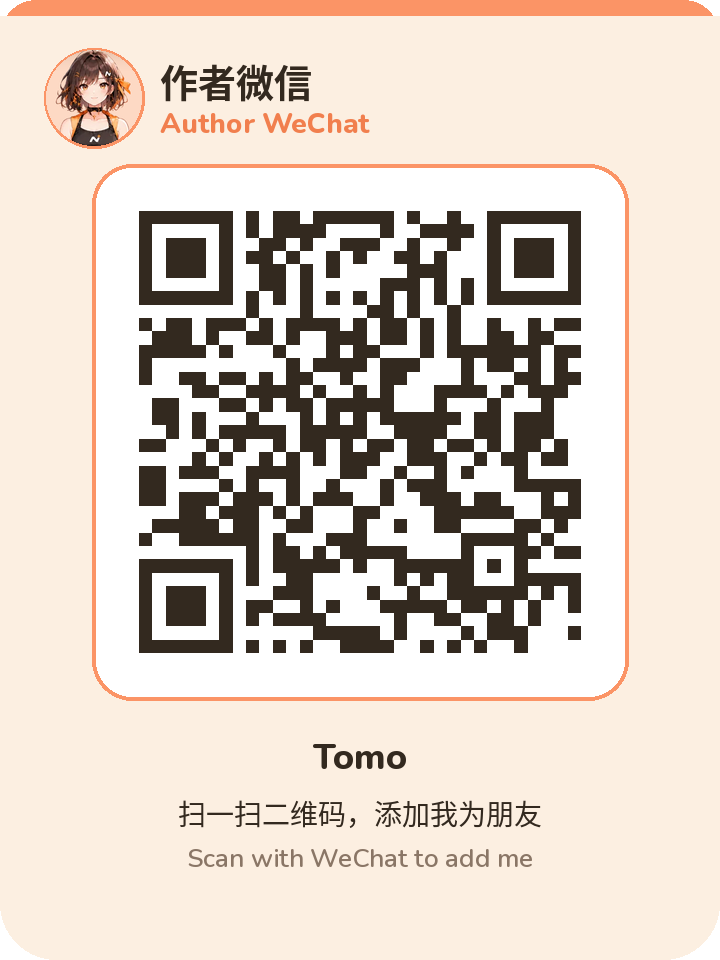
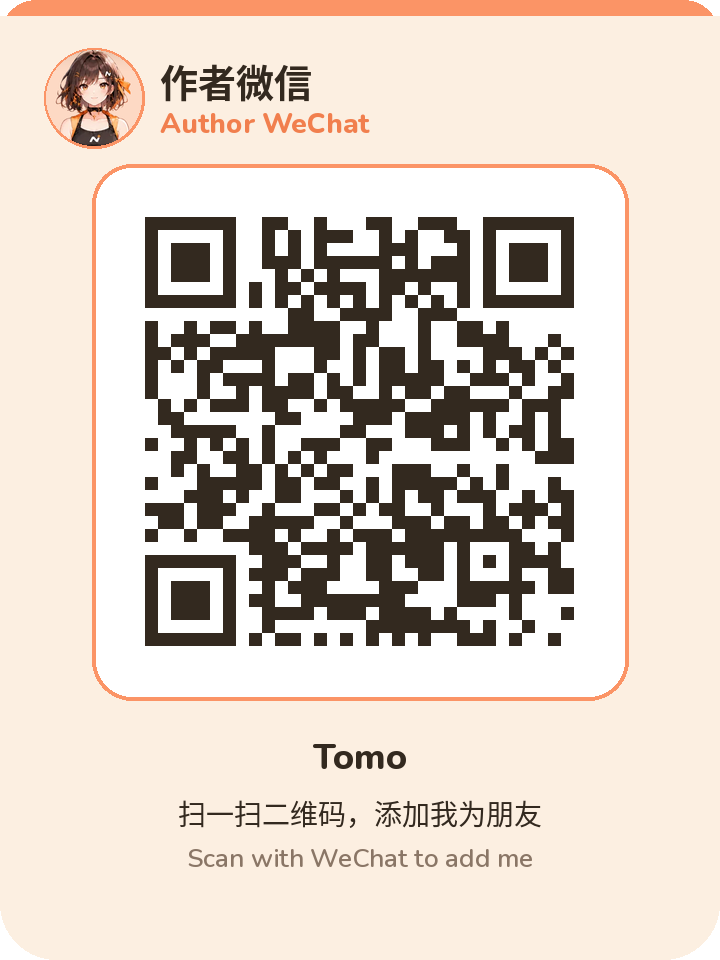
site: swap author WeChat QR, remove user group QR

Changed region(s): [[0.1833, 0.2188, 0.825, 0.6875]]

diff --git a/index.html b/index.html
@@ -11,8 +11,8 @@
   <title>Nomi·诺米 — 让 AI 工具协同起来</title>
   <link rel="icon" href="assets/brand/nomi-mark.svg" type="image/svg+xml" />
   <link rel="preload" href="assets/fonts/nunito-latin.woff2" as="font" type="font/woff2" crossorigin />
-  <link rel="preload" as="image" href="assets/mockup/hero-bg.webp?v=20261025v2fc" imagesrcset="assets/mockup/hero-bg.webp?v=20261025v2fc 1024w, assets/mockup/hero-bg@2x.webp?v=20261025v2fc 2048w" imagesizes="100vw" fetchpriority="high" />
-  <link rel="stylesheet" href="css/styles.css?v=20261026v202" />
+  <link rel="preload" as="image" href="assets/mockup/hero-bg.webp?v=20261027qr" imagesrcset="assets/mockup/hero-bg.webp?v=20261027qr 1024w, assets/mockup/hero-bg@2x.webp?v=20261027qr 2048w" imagesizes="100vw" fetchpriority="high" />
+  <link rel="stylesheet" href="css/styles.css?v=20261027qr" />
 </head>
 <body data-page="home" id="top">
   <header class="site-header">
@@ -50,8 +50,8 @@
     <section class="hero hero--bleed" aria-labelledby="hero-title">
       <div class="hero-bleed-media" aria-hidden="true">
         <img
-          src="assets/mockup/hero-bg.webp?v=20261025v2fc"
-          srcset="assets/mockup/hero-bg.webp?v=20261025v2fc 1024w, assets/mockup/hero-bg@2x.webp?v=20261025v2fc 2048w"
+          src="assets/mockup/hero-bg.webp?v=20261027qr"
+          srcset="assets/mockup/hero-bg.webp?v=20261027qr 1024w, assets/mockup/hero-bg@2x.webp?v=20261027qr 2048w"
           sizes="100vw"
           width="2048" height="768"
           alt=""
@@ -291,17 +291,13 @@
       <div class="container">
         <div class="section-head">
           <span class="section-label"><span data-i18n="contact.label">联系与交流</span></span>
-          <h2 id="contact-title" data-i18n="contact.title">联系作者，加入社区</h2>
-          <p class="lead" data-i18n="contact.lead">使用微信扫码，添加作者或加入 Nomi 用户交流群。</p>
+          <h2 id="contact-title" data-i18n="contact.title">联系作者</h2>
+          <p class="lead" data-i18n="contact.lead">使用微信扫码，添加作者。</p>
         </div>
         <div class="contact-grid">
           <figure class="contact-card">
-            <picture><source srcset="assets/contact/qr-author.webp?v=20261025v2fc" type="image/webp" /><img src="assets/contact/qr-author.png?v=20261025v2fc" width="360" height="480" loading="lazy" decoding="async" alt="作者微信二维码" data-i18n-alt="contact.author.alt" /></picture>
+            <picture><source srcset="assets/contact/qr-author.webp?v=20261027qr" type="image/webp" /><img src="assets/contact/qr-author.png?v=20261027qr" width="360" height="480" loading="lazy" decoding="async" alt="作者微信二维码" data-i18n-alt="contact.author.alt" /></picture>
             <figcaption data-i18n="contact.author.cap">作者微信 · Tomo</figcaption>
-          </figure>
-          <figure class="contact-card">
-            <picture><source srcset="assets/contact/qr-group.webp?v=20261025v2fc" type="image/webp" /><img src="assets/contact/qr-group.png?v=20261025v2fc" width="360" height="480" loading="lazy" decoding="async" alt="Nomi 用户交流群二维码" data-i18n-alt="contact.group.alt" /></picture>
-            <figcaption data-i18n="contact.group.cap">Nomi 用户交流群</figcaption>
           </figure>
         </div>
       </div>
@@ -345,7 +341,7 @@
       </div>
     </div>
   </footer>
-  <script src="js/i18n.js?v=20261026v202"></script>
-  <script src="js/main.js?v=20261026v202"></script>
+  <script src="js/i18n.js?v=20261027qr"></script>
+  <script src="js/main.js?v=20261027qr"></script>
 </body>
 </html>

diff --git a/js/i18n.js b/js/i18n.js
@@ -196,16 +196,13 @@
       "contactPop.title": "联系我们",
       "contactPop.close": "关闭",
       "contactPop.author": "作者微信二维码",
-      "contactPop.group": "Nomi 用户交流群二维码",
       "contactPop.hint": "长按识别二维码",
       "contactPop.issues": "遇到问题或有新想法？去 GitHub Issues 反馈",
       "contact.label": "联系与交流",
-      "contact.title": "联系作者，加入社区",
-      "contact.lead": "使用微信扫码，添加作者或加入 Nomi 用户交流群。",
+      "contact.title": "联系作者",
+      "contact.lead": "使用微信扫码，添加作者。",
       "contact.author.alt": "作者微信二维码",
       "contact.author.cap": "作者微信 · Tomo",
-      "contact.group.alt": "Nomi 用户交流群二维码",
-      "contact.group.cap": "Nomi 用户交流群",
       "footer.copy": "© Nomi·诺米 · MIT",
       "page.features.label": "功能",
       "page.features.title": "Nomi 能帮你做什么",
@@ -686,16 +683,13 @@
       "contactPop.title": "Contact us",
       "contactPop.close": "Close",
       "contactPop.author": "Author WeChat QR code",
-      "contactPop.group": "Nomi community group QR code",
       "contactPop.hint": "Long-press to scan",
       "contactPop.issues": "Found a bug or have an idea? Open a GitHub Issue",
       "contact.label": "Contact & community",
-      "contact.title": "Reach the author, join the community",
-      "contact.lead": "Scan with WeChat to add the author or join the Nomi user group.",
+      "contact.title": "Reach the author",
+      "contact.lead": "Scan with WeChat to add the author.",
       "contact.author.alt": "Author WeChat QR code",
       "contact.author.cap": "Author WeChat · Tomo",
-      "contact.group.alt": "Nomi community group QR code",
-      "contact.group.cap": "Nomi community group",
       "footer.copy": "© Nomi·诺米 · MIT",
       "page.features.label": "Features",
       "page.features.title": "What Nomi can do for you",

diff --git a/js/main.js b/js/main.js
@@ -96,7 +96,7 @@
     });
     return;
   }
-  var V = "20261019c", pop, backdrop, built = false, opener = null;
+  var V = "20261027qr", pop, backdrop, built = false, opener = null;
   function card(name, altKey) {
     return '<picture><source type="image/webp" data-srcset="assets/contact/' + name + '.webp?v=' + V + '" />' +
       '<img width="360" height="480" decoding="async" data-src="assets/contact/' + name + '.png?v=' + V + '" alt="" data-i18n-alt="' + altKey + '" /></picture>';
@@ -107,7 +107,7 @@
     pop.setAttribute("role", "dialog"); pop.setAttribute("aria-modal", "true"); pop.setAttribute("aria-labelledby", "contact-pop-title");
     pop.innerHTML = '<div class="cpop-head"><h2 id="contact-pop-title" data-i18n="contactPop.title">联系我们</h2>' +
       '<button type="button" class="cpop-close" data-i18n-aria-label="contactPop.close" aria-label="关闭">&times;</button></div>' +
-      '<div class="cpop-grid">' + card("qr-author", "contactPop.author") + card("qr-group", "contactPop.group") + '</div>' +
+      '<div class="cpop-grid">' + card("qr-author", "contactPop.author") + '</div>' +
       '<p class="cpop-hint" data-i18n="contactPop.hint">长按识别二维码</p>' +
       '<a class="cpop-issues" href="https://github.com/Cookieboty/nomi-ai/issues" target="_blank" rel="noopener noreferrer" data-i18n="contactPop.issues">遇到问题或有新想法？去 GitHub Issues 反馈</a>';
     document.body.appendChild(backdrop); document.body.appendChild(pop);

diff --git a/css/styles.css b/css/styles.css
@@ -1338,7 +1338,7 @@ code {
 .cpop {
   position: fixed; z-index: 120; top: calc(var(--header-h) + 8px);
   right: max(1.25rem, calc((100vw - var(--max)) / 2));
-  width: 460px; max-width: calc(100vw - 2rem);
+  width: 380px; max-width: calc(100vw - 2rem);
   background: var(--nomi-card); border: 1px solid var(--nomi-border-strong);
   border-radius: var(--radius); box-shadow: var(--nomi-shadow-lg); padding: 16px 18px 14px;
 }
@@ -1346,7 +1346,8 @@ code {
 .cpop-head { display: flex; align-items: center; justify-content: space-between; margin-bottom: 10px; }
 .cpop-head h2 { margin: 0; font-family: var(--font-display); font-size: 1.05rem; }
 .cpop-close { appearance: none; border: 0; background: rgba(51,41,31,.06); width: 32px; height: 32px; border-radius: 50%; cursor: pointer; font-size: 18px; line-height: 1; color: var(--nomi-ink); }
-.cpop-grid { display: grid; grid-template-columns: 1fr 1fr; gap: 12px; }
+.cpop-grid { display: grid; grid-template-columns: 1fr; justify-items: center; gap: 12px; }
+.cpop-grid picture { width: min(240px, 100%); }
 .cpop-grid img { display: block; width: 100%; height: auto; border-radius: 14px; aspect-ratio: 3 / 4; background: var(--nomi-cream); }
 .cpop-hint { display: none; text-align: center; color: var(--nomi-warm-gray); font-size: .9rem; margin: 10px 0 0; }
 .cpop-issues { display: block; margin-top: 12px; font-size: .9rem; text-align: center; }

diff --git a/features.html b/features.html
@@ -9,7 +9,7 @@
   <link rel="icon" href="assets/brand/nomi-mark.svg" type="image/svg+xml" />
   <link rel="preload" href="assets/fonts/nunito-latin.woff2" as="font" type="font/woff2" crossorigin />
   <script>document.documentElement.className+=" js"</script>
-  <link rel="stylesheet" href="css/styles.css?v=20261026v202" />
+  <link rel="stylesheet" href="css/styles.css?v=20261027qr" />
 </head>
 <body data-page="features">
   <header class="site-header">
@@ -332,8 +332,8 @@
       </div>
     </div>
   </footer>
-  <script src="js/i18n.js?v=20261026v202"></script>
-  <script src="js/main.js?v=20261026v202"></script>
+  <script src="js/i18n.js?v=20261027qr"></script>
+  <script src="js/main.js?v=20261027qr"></script>
   <script src="js/features.js?v=20261026v202"></script>
 </body>
 </html>

diff --git a/changelog.html b/changelog.html
@@ -11,7 +11,7 @@
   <title>更新日志 — Nomi·诺米</title>
   <link rel="icon" href="assets/brand/nomi-mark.svg" type="image/svg+xml" />
   <link rel="preload" href="assets/fonts/nunito-latin.woff2" as="font" type="font/woff2" crossorigin />
-  <link rel="stylesheet" href="css/styles.css?v=20261026v202" />
+  <link rel="stylesheet" href="css/styles.css?v=20261027qr" />
 </head>
 <body data-page="changelog" id="top">
   <header class="site-header">
@@ -307,7 +307,7 @@
       </div>
     </div>
   </footer>
-  <script src="js/i18n.js?v=20261026v202"></script>
-  <script src="js/main.js?v=20261026v202"></script>
+  <script src="js/i18n.js?v=20261027qr"></script>
+  <script src="js/main.js?v=20261027qr"></script>
 </body>
 </html>

diff --git a/download.html b/download.html
@@ -8,7 +8,7 @@
   <title>下载 — Nomi·诺米</title>
   <link rel="icon" href="assets/brand/nomi-mark.svg" type="image/svg+xml" />
   <link rel="preload" href="assets/fonts/nunito-latin.woff2" as="font" type="font/woff2" crossorigin />
-  <link rel="stylesheet" href="css/styles.css?v=20261026v202" />
+  <link rel="stylesheet" href="css/styles.css?v=20261027qr" />
 </head>
 <body data-page="download">
   <header class="site-header">
@@ -166,7 +166,7 @@
       </div>
     </div>
   </footer>
-  <script src="js/i18n.js?v=20261026v202"></script>
-  <script src="js/main.js?v=20261026v202"></script>
+  <script src="js/i18n.js?v=20261027qr"></script>
+  <script src="js/main.js?v=20261027qr"></script>
 </body>
 </html>

diff --git a/privacy.html b/privacy.html
@@ -8,7 +8,7 @@
   <title>隐私 — Nomi·诺米</title>
   <link rel="icon" href="assets/brand/nomi-mark.svg" type="image/svg+xml" />
   <link rel="preload" href="assets/fonts/nunito-latin.woff2" as="font" type="font/woff2" crossorigin />
-  <link rel="stylesheet" href="css/styles.css?v=20261026v202" />
+  <link rel="stylesheet" href="css/styles.css?v=20261027qr" />
 </head>
 <body data-page="privacy">
   <header class="site-header">
@@ -115,7 +115,7 @@
       </div>
     </div>
   </footer>
-  <script src="js/i18n.js?v=20261026v202"></script>
-  <script src="js/main.js?v=20261026v202"></script>
+  <script src="js/i18n.js?v=20261027qr"></script>
+  <script src="js/main.js?v=20261027qr"></script>
 </body>
 </html>

diff --git a/docs.html b/docs.html
@@ -8,7 +8,7 @@
   <title>文档 — Nomi·诺米</title>
   <link rel="icon" href="assets/brand/nomi-mark.svg" type="image/svg+xml" />
   <link rel="preload" href="assets/fonts/nunito-latin.woff2" as="font" type="font/woff2" crossorigin />
-  <link rel="stylesheet" href="css/styles.css?v=20261026v202" />
+  <link rel="stylesheet" href="css/styles.css?v=20261027qr" />
 </head>
 <body data-page="docs">
   <header class="site-header">
@@ -237,7 +237,7 @@
       </div>
     </div>
   </footer>
-  <script src="js/i18n.js?v=20261026v202"></script>
-  <script src="js/main.js?v=20261026v202"></script>
+  <script src="js/i18n.js?v=20261027qr"></script>
+  <script src="js/main.js?v=20261027qr"></script>
 </body>
 </html>
